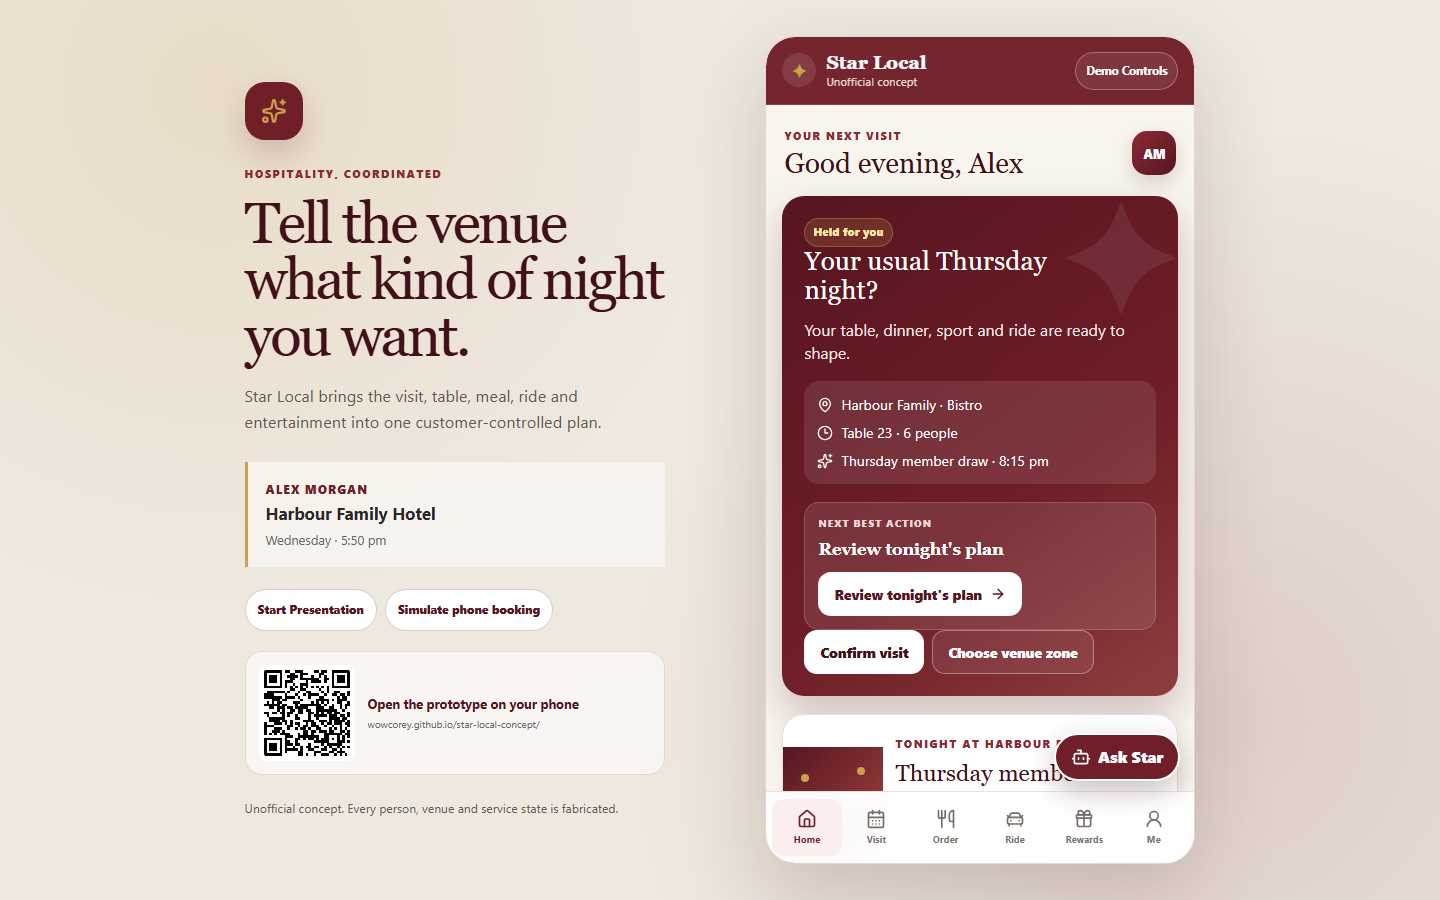
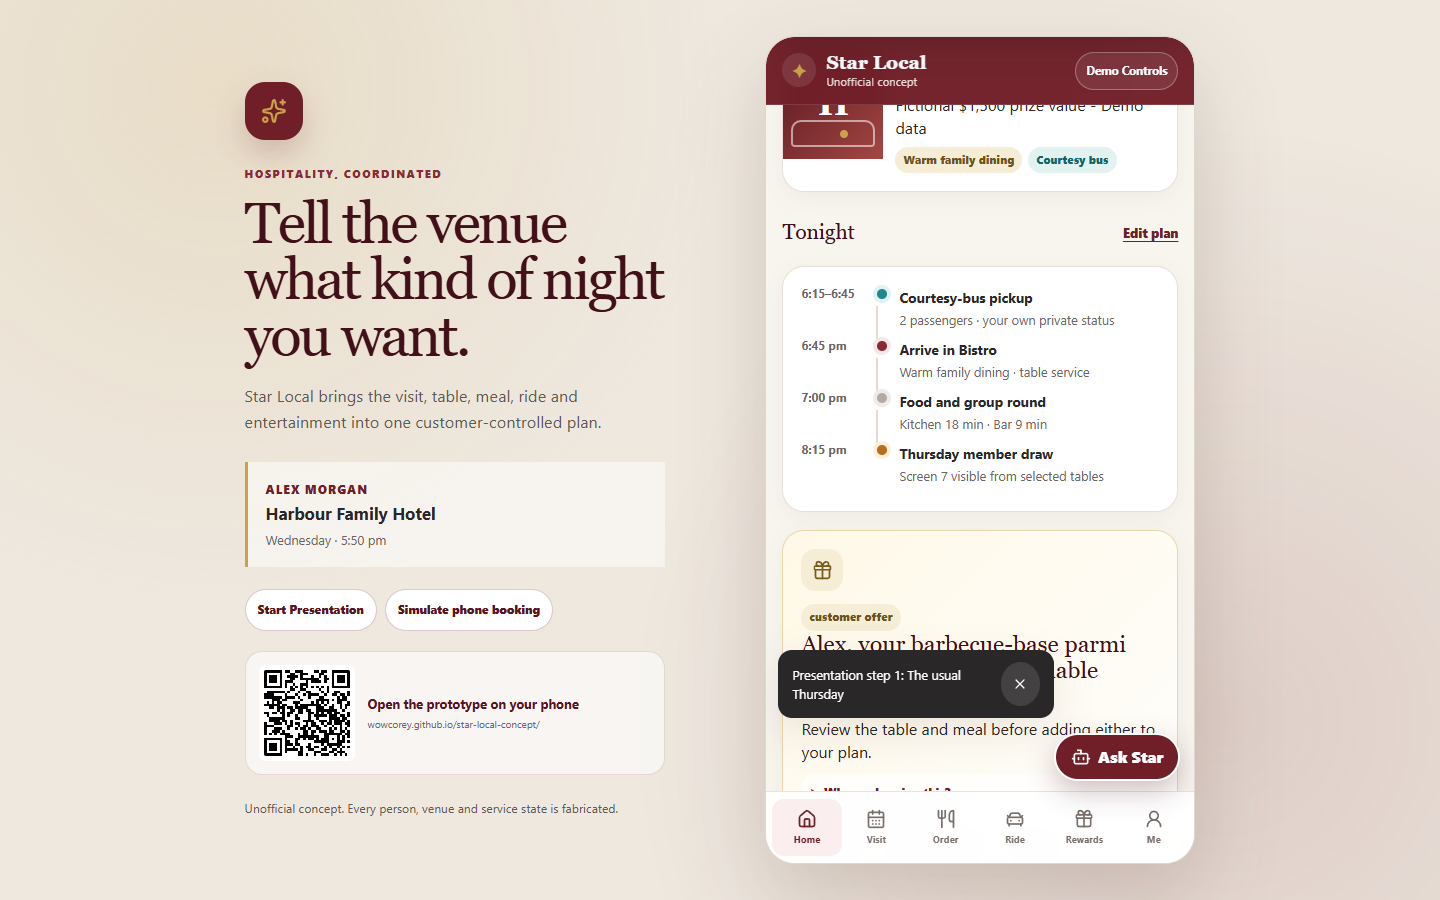
Polish Star Local v0.2.1 before review

Changed region(s): [[0.5312, 0.0933, 0.8438, 0.9022], [0.6875, 0.0933, 0.75, 0.1244]]

diff --git a/src/styles/index.css b/src/styles/index.css
@@ -217,6 +217,9 @@ a {
 }
 .section-heading a,
 .section-heading button {
+  min-height: 44px;
+  display: inline-flex;
+  align-items: center;
   border: 0;
   background: transparent;
   color: var(--burgundy-700);
@@ -1938,8 +1941,8 @@ a {
   font-size: 0.8rem;
 }
 .toast button {
-  width: 32px;
-  height: 32px;
+  width: 44px;
+  height: 44px;
   display: grid;
   place-items: center;
   border: 0;
@@ -2141,12 +2144,14 @@ a {
 @media (min-width: 560px) {
   .phone-shell {
     width: 430px;
-    min-height: 940px;
+    height: calc(100vh - 48px);
+    min-height: min(940px, calc(100vh - 48px));
     margin: 24px 0;
     border: 1px solid rgba(73, 45, 38, 0.14);
     border-radius: 30px;
     box-shadow: 0 30px 80px rgba(73, 44, 34, 0.18);
-    overflow: hidden;
+    overflow-x: hidden;
+    overflow-y: auto;
   }
   .app-header {
     position: sticky;
@@ -2709,6 +2714,9 @@ a {
   gap: 4px;
   color: var(--muted);
   font-size: 0.68rem;
+}
+.audio-controls input[type="range"] {
+  min-height: 44px;
 }
 .empty-state.compact {
   padding: 8px;

diff --git a/src/features/v02/model.ts b/src/features/v02/model.ts
@@ -123,8 +123,8 @@ export function getHomeNextAction(input: {
     };
   if (input.stage === "in-venue" && input.courtesyBus && input.returnPassengers === 0)
     return { label: "Confirm the return ride", route: "/ride" };
-  if (!input.courtesyBus) return { label: "Review safe travel options", route: "/ride" };
   if (input.serviceRequestState && input.serviceRequestState !== "completed")
     return { label: "View active service request", route: "service" };
+  if (!input.courtesyBus) return { label: "Review safe travel options", route: "/ride" };
   return { label: "Review tonight's plan", route: "/visit" };
 }

diff --git a/src/features/v02/model.test.ts b/src/features/v02/model.test.ts
@@ -166,6 +166,16 @@ describe("Star Local v0.2 operating model", () => {
       label: "Review safe travel options",
       route: "/ride",
     });
+    expect(
+      getHomeNextAction({
+        ...base,
+        bookingState: "confirmed",
+        serviceRequestState: "accepted",
+      }),
+    ).toEqual({
+      label: "View active service request",
+      route: "service",
+    });
   });
 
   it("matches the new structured Ask Star workflows", () => {

diff --git a/README.md b/README.md
@@ -6,7 +6,7 @@ Star Local coordinates the choices that shape a pub visit—venue zone, table, f
 
 > Tell the venue what kind of night you want.
 
-![Star Local v0.2 desktop presentation using the synthetic Alex Morgan journey](docs/screenshots/home-desktop.png)
+![Star Local v0.2.1 desktop Presentation Mode using the synthetic Alex Morgan journey](docs/screenshots/home-desktop.png)
 
 _Every visible person, venue, layout, product, price, event, balance and service state is fabricated._
 
@@ -39,6 +39,16 @@ _Every visible person, venue, layout, product, price, event, balance and service
 - **Taylor Smith / Hinterland Local** — low table, step-free route, accessible transport, community trivia and bottle-shop collection
 
 Use **Demo Controls** to load a journey or tune the simulated day, time, layout, booking, order, service, screen, transport, marketing, rewards, phone and collection states. **Reset demo** restores the v0.2.1 flagship defaults.
+
+## Synthetic prototype views
+
+| Flagship mobile Home                                                                | Joined-table floor plan                                                                              |
+| ----------------------------------------------------------------------------------- | ---------------------------------------------------------------------------------------------------- |
+| ![Flagship mobile Home](docs/screenshots/home-mobile-v0.2.1.png)                    | ![Joined group with individually selectable tables](docs/screenshots/joined-table-mobile-v0.2.1.png) |
+| Table Service request                                                               | Telephone receptionist                                                                               |
+| ![Customer Table Service request](docs/screenshots/table-service-mobile-v0.2.1.png) | ![Synthetic telephone receptionist](docs/screenshots/phone-receptionist-mobile-v0.2.1.png)           |
+
+All captures are generated from the deterministic prototype fixtures. Additional evidence for zone selection, Watch Tonight, drinks and the group round is stored in `docs/screenshots/`.
 
 ## Local setup
 
